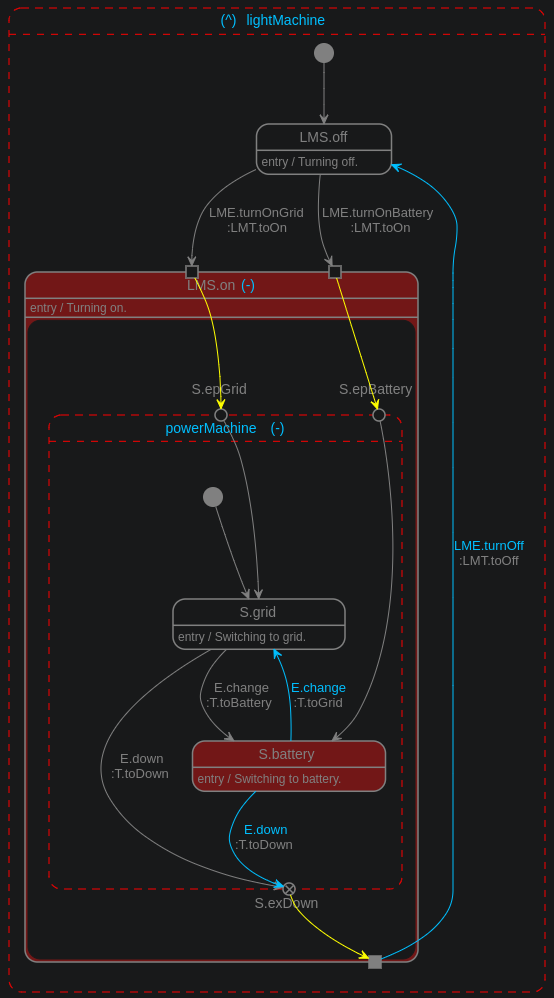
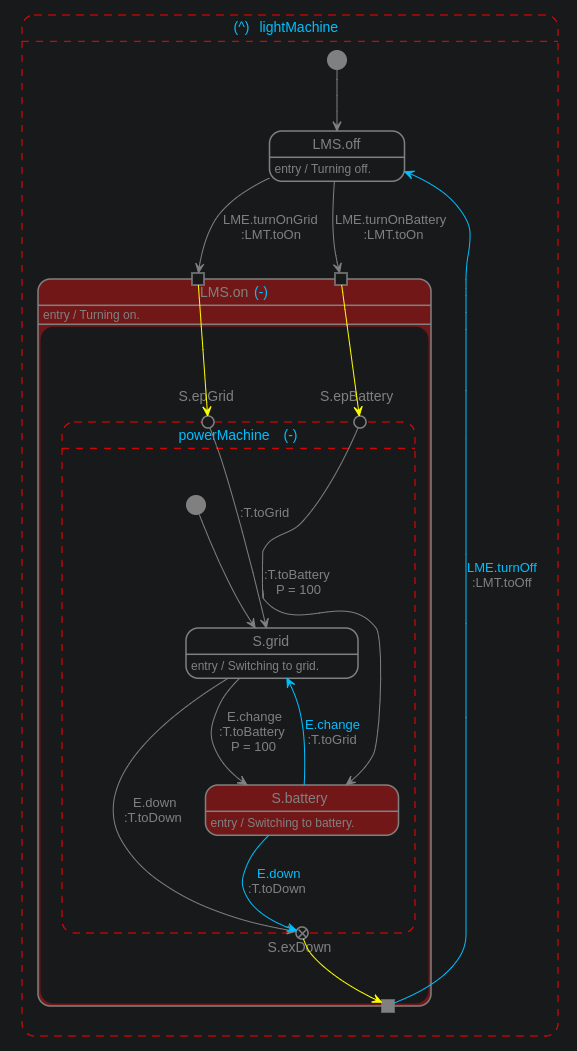
docs: Changed EntryPoint/ExitPoint documentation according to #4.

diff --git a/packages/hisma/example/04_entry_and_exit_points.dart b/packages/hisma/example/04_entry_and_exit_points.dart
@@ -20,7 +20,7 @@ StateMachine<S, E, T> createPowerMachine() => StateMachine<S, E, T>(
       events: E.values,
       initialStateId: S.grid,
       states: {
-        S.epGrid: EntryPoint([T.toGrid, T.toBattery]),
+        S.epGrid: EntryPoint([T.toGrid]),
         S.epBattery: EntryPoint([T.toBattery]),
         S.exDown: ExitPoint(),
         S.grid: State(

diff --git a/packages/hisma/README.md b/packages/hisma/README.md
@@ -299,36 +299,52 @@ Let's summarize what we achieved so far:
 
 ### Entry and exit points
 
-What if in certain cases, instead of activating the state defined by the initialStateId of these machines, we want some other state of those to be activated? Also, what if from inside these machines we want some events to trigger events in the parent machine? Entry and exit points are there to help with these use cases. We optionally declare them for the Region as mappings between the parent and the child machines as we will see them in detail.
+What if, in certain cases, instead of activating the state defined by the initialStateId of these machines, we want another state to be activated? Also, what if, from inside these machines, we want some events to trigger events in the parent machine? Entry and exit points are there to help with these use cases. We optionally declare them for the Region as mappings between the parent and the child machines as we will see them in detail.
 
-Entry and exit points can be also viewed as the interface for the state machine.
+> **Note**
+> Entry and exit points can also be viewed as the **interface** for the state machine
+> as they can be connected to triggers and event in the parent machine.
 
 #### Entry connector and EntryPoint
 
-Entry connector mapping define that for a certain trigger (defined as source state id, transition id and event id trio of the parent state machine) which EntryPoint (that is a kind of state, an entry point pseudo state) in the state machine of the region (child machine) needs to be used to define which State shall be activated.
+Entry connector mapping define that for a certain trigger (defined as source state id, transition id and event id trio of the parent state machine) which EntryPoint (that is a also a kind of state: an entry point pseudo state) in the state machine of the region (child machine) needs to be used.
+When this EntryPoint is selected the child state machine will be in this state momentarily to select the transition to be used from a defined list of Transition objects of the EntryPoint.
 
-When we design our state machine we define these entry points with a constructor argument that defines the target state to be activated (instead of the initialStateId of the state machine) when this entry point is activated.
+When we design our state machine we define these Transition objects in the constructor of the EntryPoint objects. These Transition objects then can take the machine to
 
-For example if we want the S.b state to be activated if our entry point is activated we define it like this:
+- a regular state
+  - which in turn can also be used to map to an EntryPoint of a Region of this state
+    (its child) if this is what we want.
+- an ExitPoint
+- a Final State
+
+For example if we want the `T.toB` Transition to be used if our entry point is activated we define it like this:
 
 ```dart
-EntryPoint(SC.b),
+EntryPoint([T.toB]),
 ```
 
-Later when we integrate this (child) state machine into a (parent) state machine we can define that what Trigger in the parent machine is triggering activation of this entry point we defined in the child state machine. We do this inside the entryPoints attribute of the Region enclosing our child machine:
+Optionally you can give multiple transitions in the list and in that case the same transition selection process is in place that [we learned earlier](#light-machine) for the regular State:
+
+```dart
+EntryPoint([T.toB, T.toC]),
+```
+
+Later when we integrate this (child) state machine into a (parent) state machine we can define that what Trigger in the parent machine is triggering activation of this entry point we defined in the child state machine. We do this inside the `entryConnectors` attribute of the Region enclosing our child machine:
 
 ```dart
 Region(
   machine: childMachine,
   entryConnectors: {
-    Trigger(source: SP.first, event: EP.e1, transition: TP.toSecond): SC.b,
+    Trigger(source: SP.first, event: EP.e1, transition: TP.toSecond): SC.ep1,
   },
 ),
 ```
 
 where SP, EP and TP are defined for the parent state machine and SC is defined for the child state machine.
 
-> Note: currently all three of the Trigger must be defined. In future versions it might ne optional to define all three.
+> **Note**
+> Currently all three of the Trigger must be defined. In future versions it might be optional to define all three.
 
 #### Exit connector and ExitPoint
 
@@ -358,7 +374,7 @@ Let's create a new machine that will "power" our lightMachine: the powerMachine.
 - `S.grid` indicating that the power is coming from the grid.
 - `S.battery` indicating that we are on battery power.
 
-The power machine can alter between these states on the `E.change` event, but even more importantly for our example it is also prepared for customized integration into a parent state machine:
+The power machine can alter between these states on the `E.change` event, but even more importantly for our example, it is also prepared for customized integration into a parent state machine:
 
 - `E.epGrid` and `E.epBattery` entry points are defined to let parent explicitly define how the powerMachine shall be started: in grid or in battery mode.
 - `E.exDown` exit point let parent machine to manage the power down situation in the parent machine: moving the parent state machine to the `LMS.off` state.
@@ -379,8 +395,8 @@ StateMachine<S, E, T> createPowerMachine() => StateMachine<S, E, T>(
       events: E.values,
       initialStateId: S.grid,
       states: {
-        S.epGrid: EntryPoint(S.grid),
-        S.epBattery: EntryPoint(S.battery),
+        S.epGrid: EntryPoint([T.toGrid]),
+        S.epBattery: EntryPoint([T.toBattery]),
         S.exDown: ExitPoint(),
         S.grid: State(
           etm: {
@@ -404,7 +420,7 @@ StateMachine<S, E, T> createPowerMachine() => StateMachine<S, E, T>(
         ),
       },
       transitions: {
-        T.toBattery: Transition(to: S.battery),
+        T.toBattery: Transition(to: S.battery, priority: 100),
         T.toGrid: Transition(to: S.grid),
         T.toDown: Transition(to: S.exDown),
       },
@@ -465,7 +481,8 @@ final lightMachine = createLightMachine(
       machine: createPowerMachine(),
       entryConnectors: {
         Trigger(
-          source: LMS.off, event: LME.turnOnGrid,
+          source: LMS.off,
+          event: LME.turnOnGrid,
           transition: LMT.toOn,
         ): S.epGrid,
         Trigger(
@@ -482,8 +499,9 @@ final lightMachine = createLightMachine(
 
 If we monitor this lightMachine we just have created in `visma` it looks similar to the image bellow. Pay attention to that our
 
-- Triggers are indicated with a square on the state that has the region inside.
+- Entry connector definitions are indicated with an empty square on the state that has the region inside.
 - Round icons are indicating the entry points to the child machine.
+- Exit connector definitions are indicated with filled squares on on the state that has the region inside.
 - Round icon with X in it indicates the exit point of the child machine
 - Yellow curves are indicating the entry and exit connectors that are mapping between
   - parent Triggers and child entry points
